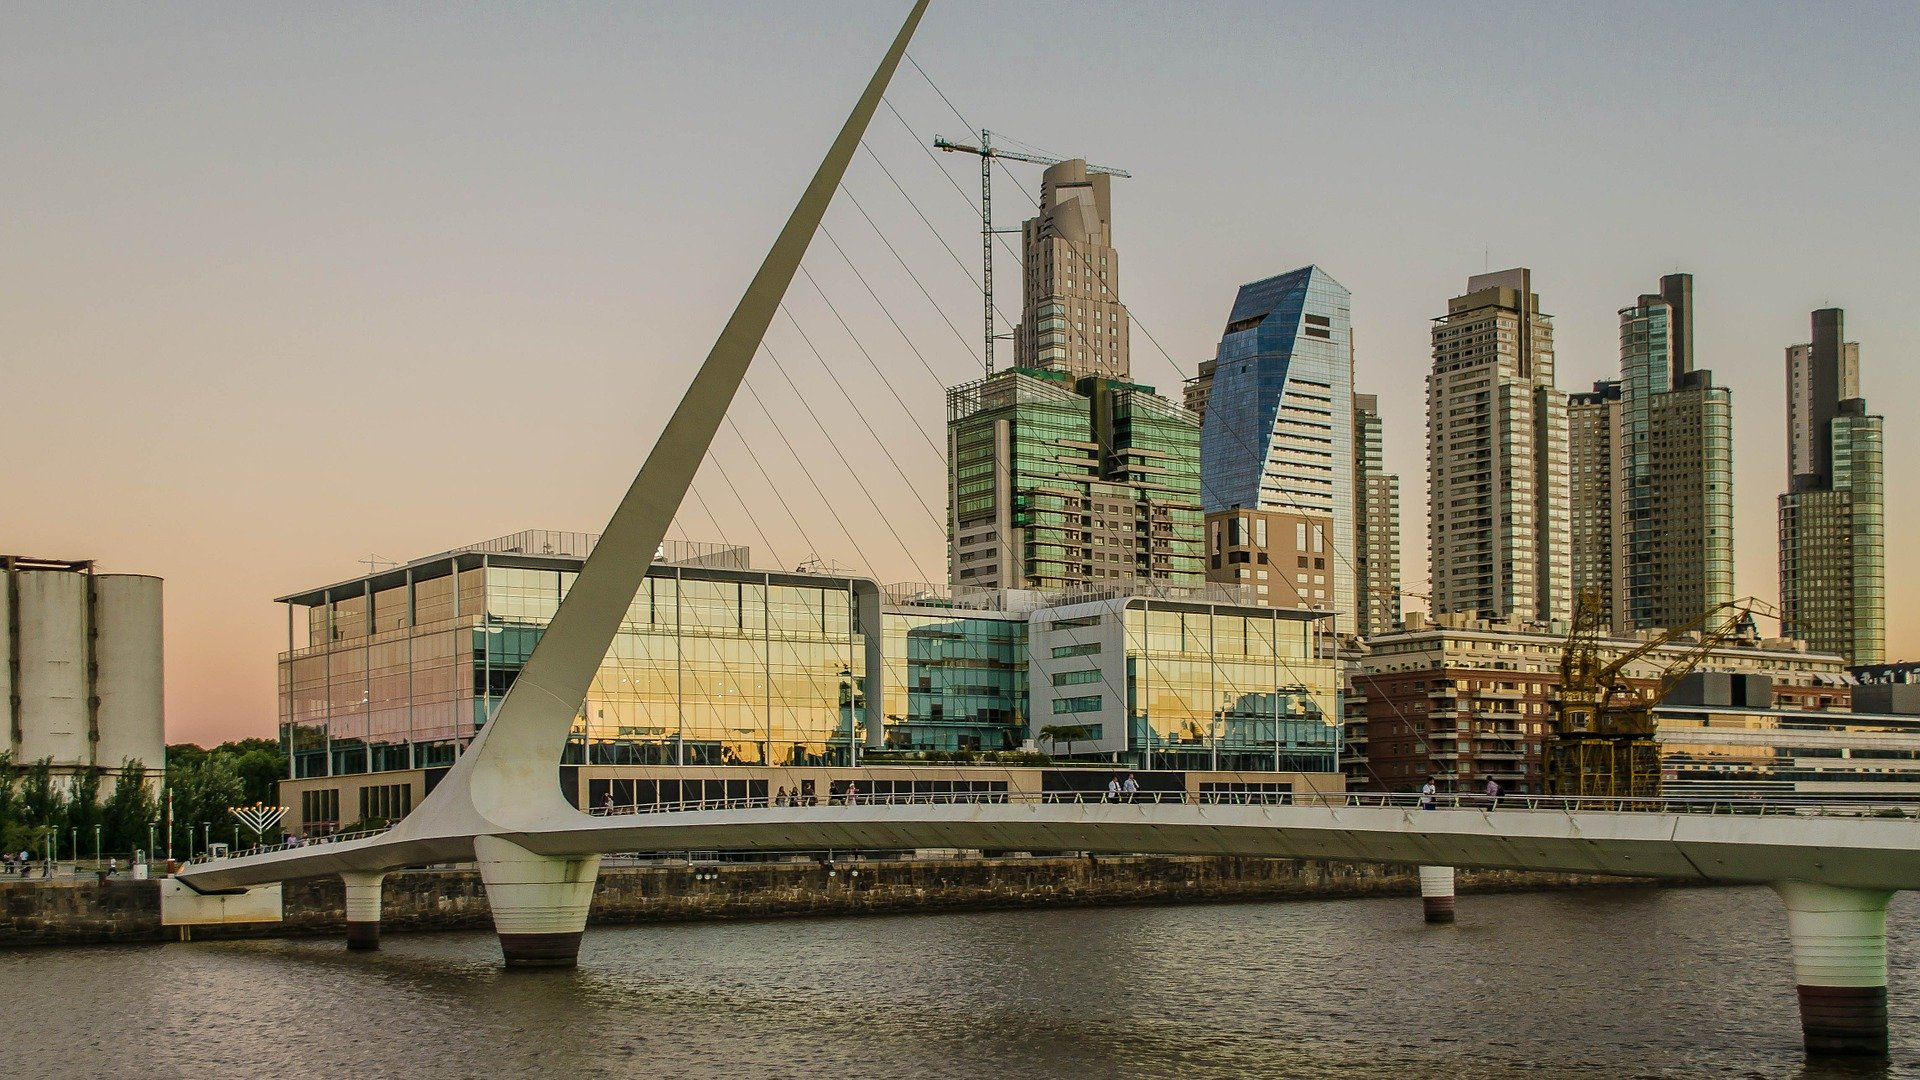
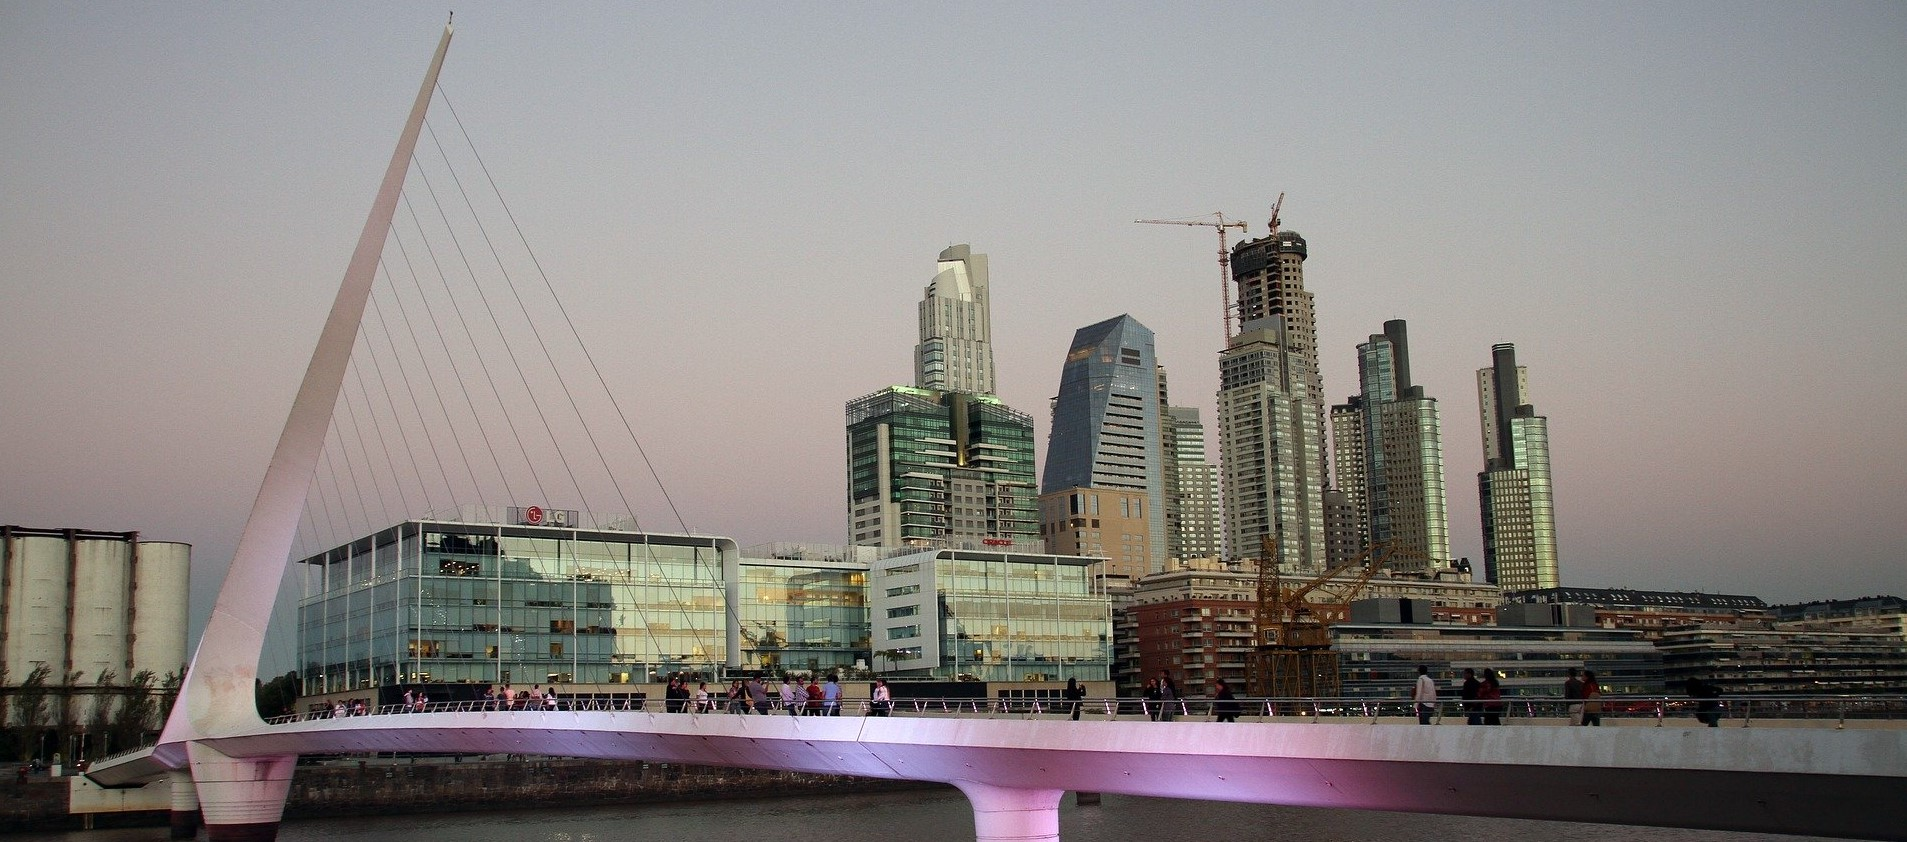
title ico, mobile containers centered, pointers

diff --git a/css/style.css b/css/style.css
@@ -8,12 +8,12 @@ body, html {
 #to_top {
     position: fixed;
     bottom: 0;
-    left: 0;
+    right: 0;
     margin: 0;
     width: 70px;
     background: linear-gradient(90deg, rgba(34,87,122,1) 0%, rgba(56,163,165,1) 64%);
     box-shadow: 0 1px 10px 0 #e2dede, 0 0px 2px 0 #C2C2C2;
-    border-radius: 0px 16px 0px 0px;
+    border-radius: 16px 16px 0px 16px;
     padding: 5px;
 }
 .button--totop {
@@ -105,8 +105,9 @@ figure {
 /* HEADER */
 
 .container__nav {
-    background-image: url("https://i.ibb.co/fG519vw/home-bsas1.jpg"); 
-    /*background-image: url("https://i.ibb.co/LvFz5hS/home-bsas2.jpg.jpg");*/
+    background-image: url("https://i.ibb.co/pPsMpbD/home-bsas3.jpg");
+    opacity: 0.85;
+    /*background-image: url("");*/
    /* <a href="https://ibb.co/9GD9t3n"><img src="" alt="home-bsas2" border="0"></a>*/
     height: 350px;
     background-repeat: no-repeat;
@@ -136,6 +137,12 @@ figure {
 }
 .brand__cointainer {
     visibility: visible;
+}
+.brand__cointainer img{
+    width:150px;
+}
+.navbar__brand img {
+    width:150px;
 }
 
 .nav__item {
@@ -258,10 +265,12 @@ li .chip:hover {
 /* BLOG */
 .blog {
     padding: 30px;
+    display: flex;
+    justify-content: center;
+    flex-direction: column;
 }
 
 .blog__img {
-    width: 250px;
     padding-left: 10px;
     background: linear-gradient(90deg, rgba(87,204,153,1) 0%, rgba(56,163,165,1) 64%);
     border-radius: 22px;
@@ -276,8 +285,7 @@ li .chip:hover {
 }
 
 .blog__post {
-    padding: 10px;
-    width: 250px; 
+    padding: 10px; 
 }
 
 .blog__header h3 {
@@ -355,6 +363,7 @@ li .chip:hover {
 .card:hover {
     transform: scale(1.2);
     transition: 1s;
+   /* cursor: pointer;*/
 }
 
 .card a h4 {
@@ -554,6 +563,10 @@ input[type="checkbox"] {
 .wrapper:hover {
     background-color: rgba(190,293,398,1);
     transition: 1.2s; }
+
+.social-link:hover {
+    cursor: pointer;
+}
 
 .social-link--linkedin {
     color: #2d76b0; }
@@ -930,6 +943,9 @@ input[type="checkbox"] {
         padding: 0px 0 0 20px;
         visibility: visible;
     }
+    .navbar__brand img {
+        width: 170px
+    }
     .space {
         width: 10%;
     }
@@ -975,7 +991,7 @@ input[type="checkbox"] {
         width: 400px;
     }
     .carousel__img {
-        height: 300px;
+        height: 450px;
     }
     .blog {
         padding: 20px 40px;
@@ -1062,6 +1078,9 @@ input[type="checkbox"] {
     .register__img {
         height: 200px;
     }
+    .brand__cointainer img{
+        width:180px;
+    }
 }
 
 @media screen and (min-width: 992px) {
@@ -1072,6 +1091,9 @@ input[type="checkbox"] {
 
     .container__nav {
         height: 500px;
+    }
+    .navbar__brand img {
+        width: 200px
     }
     .space {
         width: 70%
@@ -1095,7 +1117,7 @@ input[type="checkbox"] {
         font-size: 18px;
     }
     .carousel__img {
-        height: 350px;
+        height: 470px;
     }
     .blog, .container__card {
         padding: 40px 40px;
@@ -1199,6 +1221,9 @@ input[type="checkbox"] {
     .container__nav {
         height: 650px;
     }
+    .navbar__brand img {
+        width: 210px
+    }
     .space {
         width: 90%;
     }
@@ -1209,7 +1234,7 @@ input[type="checkbox"] {
         padding: 60px 80px;
     }
     .carousel__img {
-        height: 420px
+        height: 500px
     }
     .blog__post, .blog__img {
         width: 550px;

diff --git a/index.html b/index.html
@@ -3,6 +3,7 @@
 <head>
     <meta charset="UTF-8">
     <meta name="viewport" content="width=device-width, initial-scale=1.0">
+    <link rel="icon" type="image/gif" href="assets/img/ico.png"/>
     <title>Meet & English</title>
     <link href="https://fonts.googleapis.com/css2?family=Exo+2:wght@500&display=swap" rel="stylesheet">
     <link rel="stylesheet" href="./css/style.css">
@@ -12,7 +13,7 @@
         <div class="container__nav">
             <nav class="navbar">
                 <a class="navbar__brand" href="index.html">
-                    <img src="assets/img/logo_blanco.png" alt="" width="150px">
+                    <img src="assets/img/logo_blanco.png" alt="logo">
                 </a>
                 <div class="space"></div>
                 <ul class="navbar__nav">
@@ -269,7 +270,7 @@
                     <li class="nav__item-bottom" id="members-link"><a href="index.html#team">Our Team</a></li>
                     <li class="nav__item-bottom" id="contact-link"><a href="index.html#contact">Contact</a></li>
                     <li class="nav__item-bottom" id="register-link"><a href="views/register.html">Register</a></li>
-                    <li class="nav__item-bottom" id="login-link"><a href="/views/login.html">Login</a></li>
+                    <li class="nav__item-bottom" id="login-link"><a href="views/login.html">Login</a></li>
                 </ul>
             </div>
         </div>

diff --git a/views/register.html b/views/register.html
@@ -3,6 +3,7 @@
 <head>
     <meta charset="UTF-8">
     <meta name="viewport" content="width=device-width, initial-scale=1.0">
+    <link rel="icon" type="image/gif" href="../assets/img/ico.png"/>
     <title>Register - Meet & English</title>
     <link href="https://fonts.googleapis.com/css2?family=Exo+2:wght@500&display=swap" rel="stylesheet">
     <link rel="stylesheet" href="../css/style.css">
@@ -13,7 +14,7 @@
     <main>
         <section class="container__register">
             <a class="brand__cointainer" href="../index.html">
-                <img src="../assets/img/logo_blanco.png" alt="" width="150px">
+                <img src="../assets/img/logo_blanco.png" alt="logo">
             </a>
             <form class="register__form">
                 <div class="register__img">

diff --git a/views/login.html b/views/login.html
@@ -3,6 +3,7 @@
 <head>
     <meta charset="UTF-8">
     <meta name="viewport" content="width=device-width, initial-scale=1.0">
+    <link rel="icon" type="image/gif" href="../assets/img/ico.png"/>
     <title>Login - Meet & English</title>
     <link href="https://fonts.googleapis.com/css2?family=Exo+2:wght@500&display=swap" rel="stylesheet">
     <link rel="stylesheet" href="../css/style.css">
@@ -13,7 +14,7 @@
     <main>
         <section class="container__login">
             <a class="brand__cointainer" href="../index.html">
-                <img src="../assets/img/logo_blanco.png" alt="" width="150px">
+                <img src="../assets/img/logo_blanco.png" alt="logo">
             </a>
             <form class="login__form">
                 <div class="login__img">
